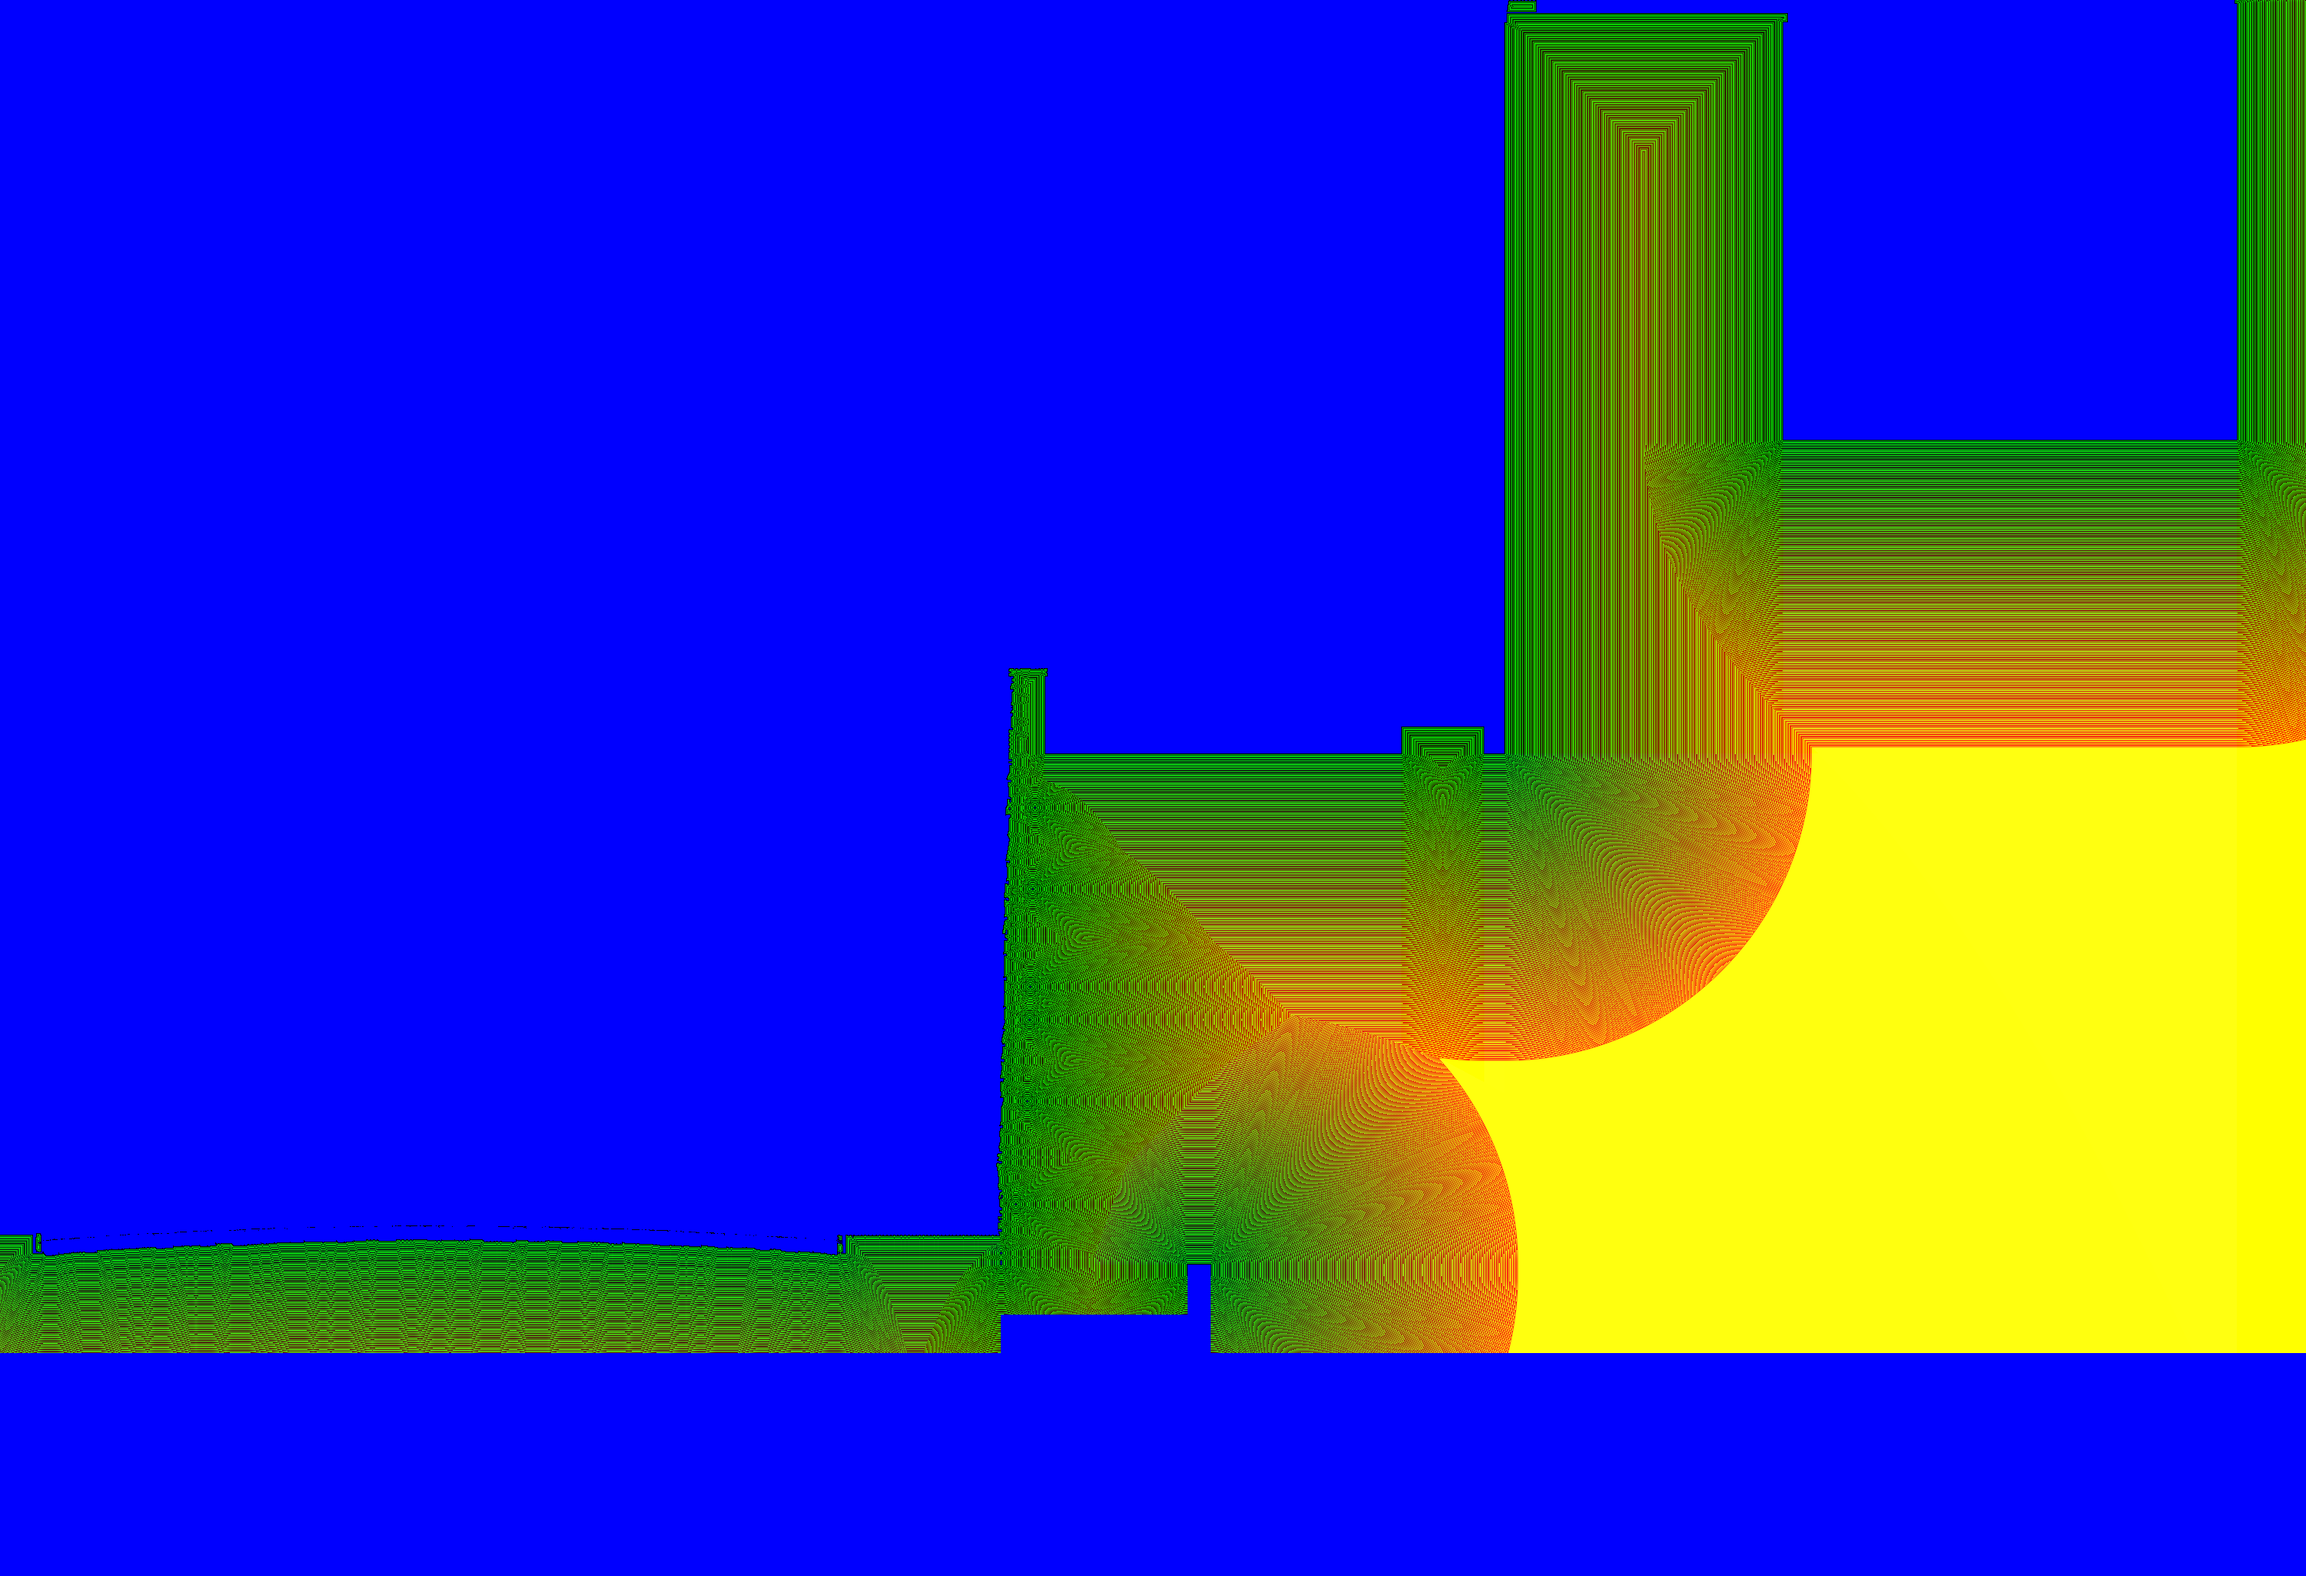
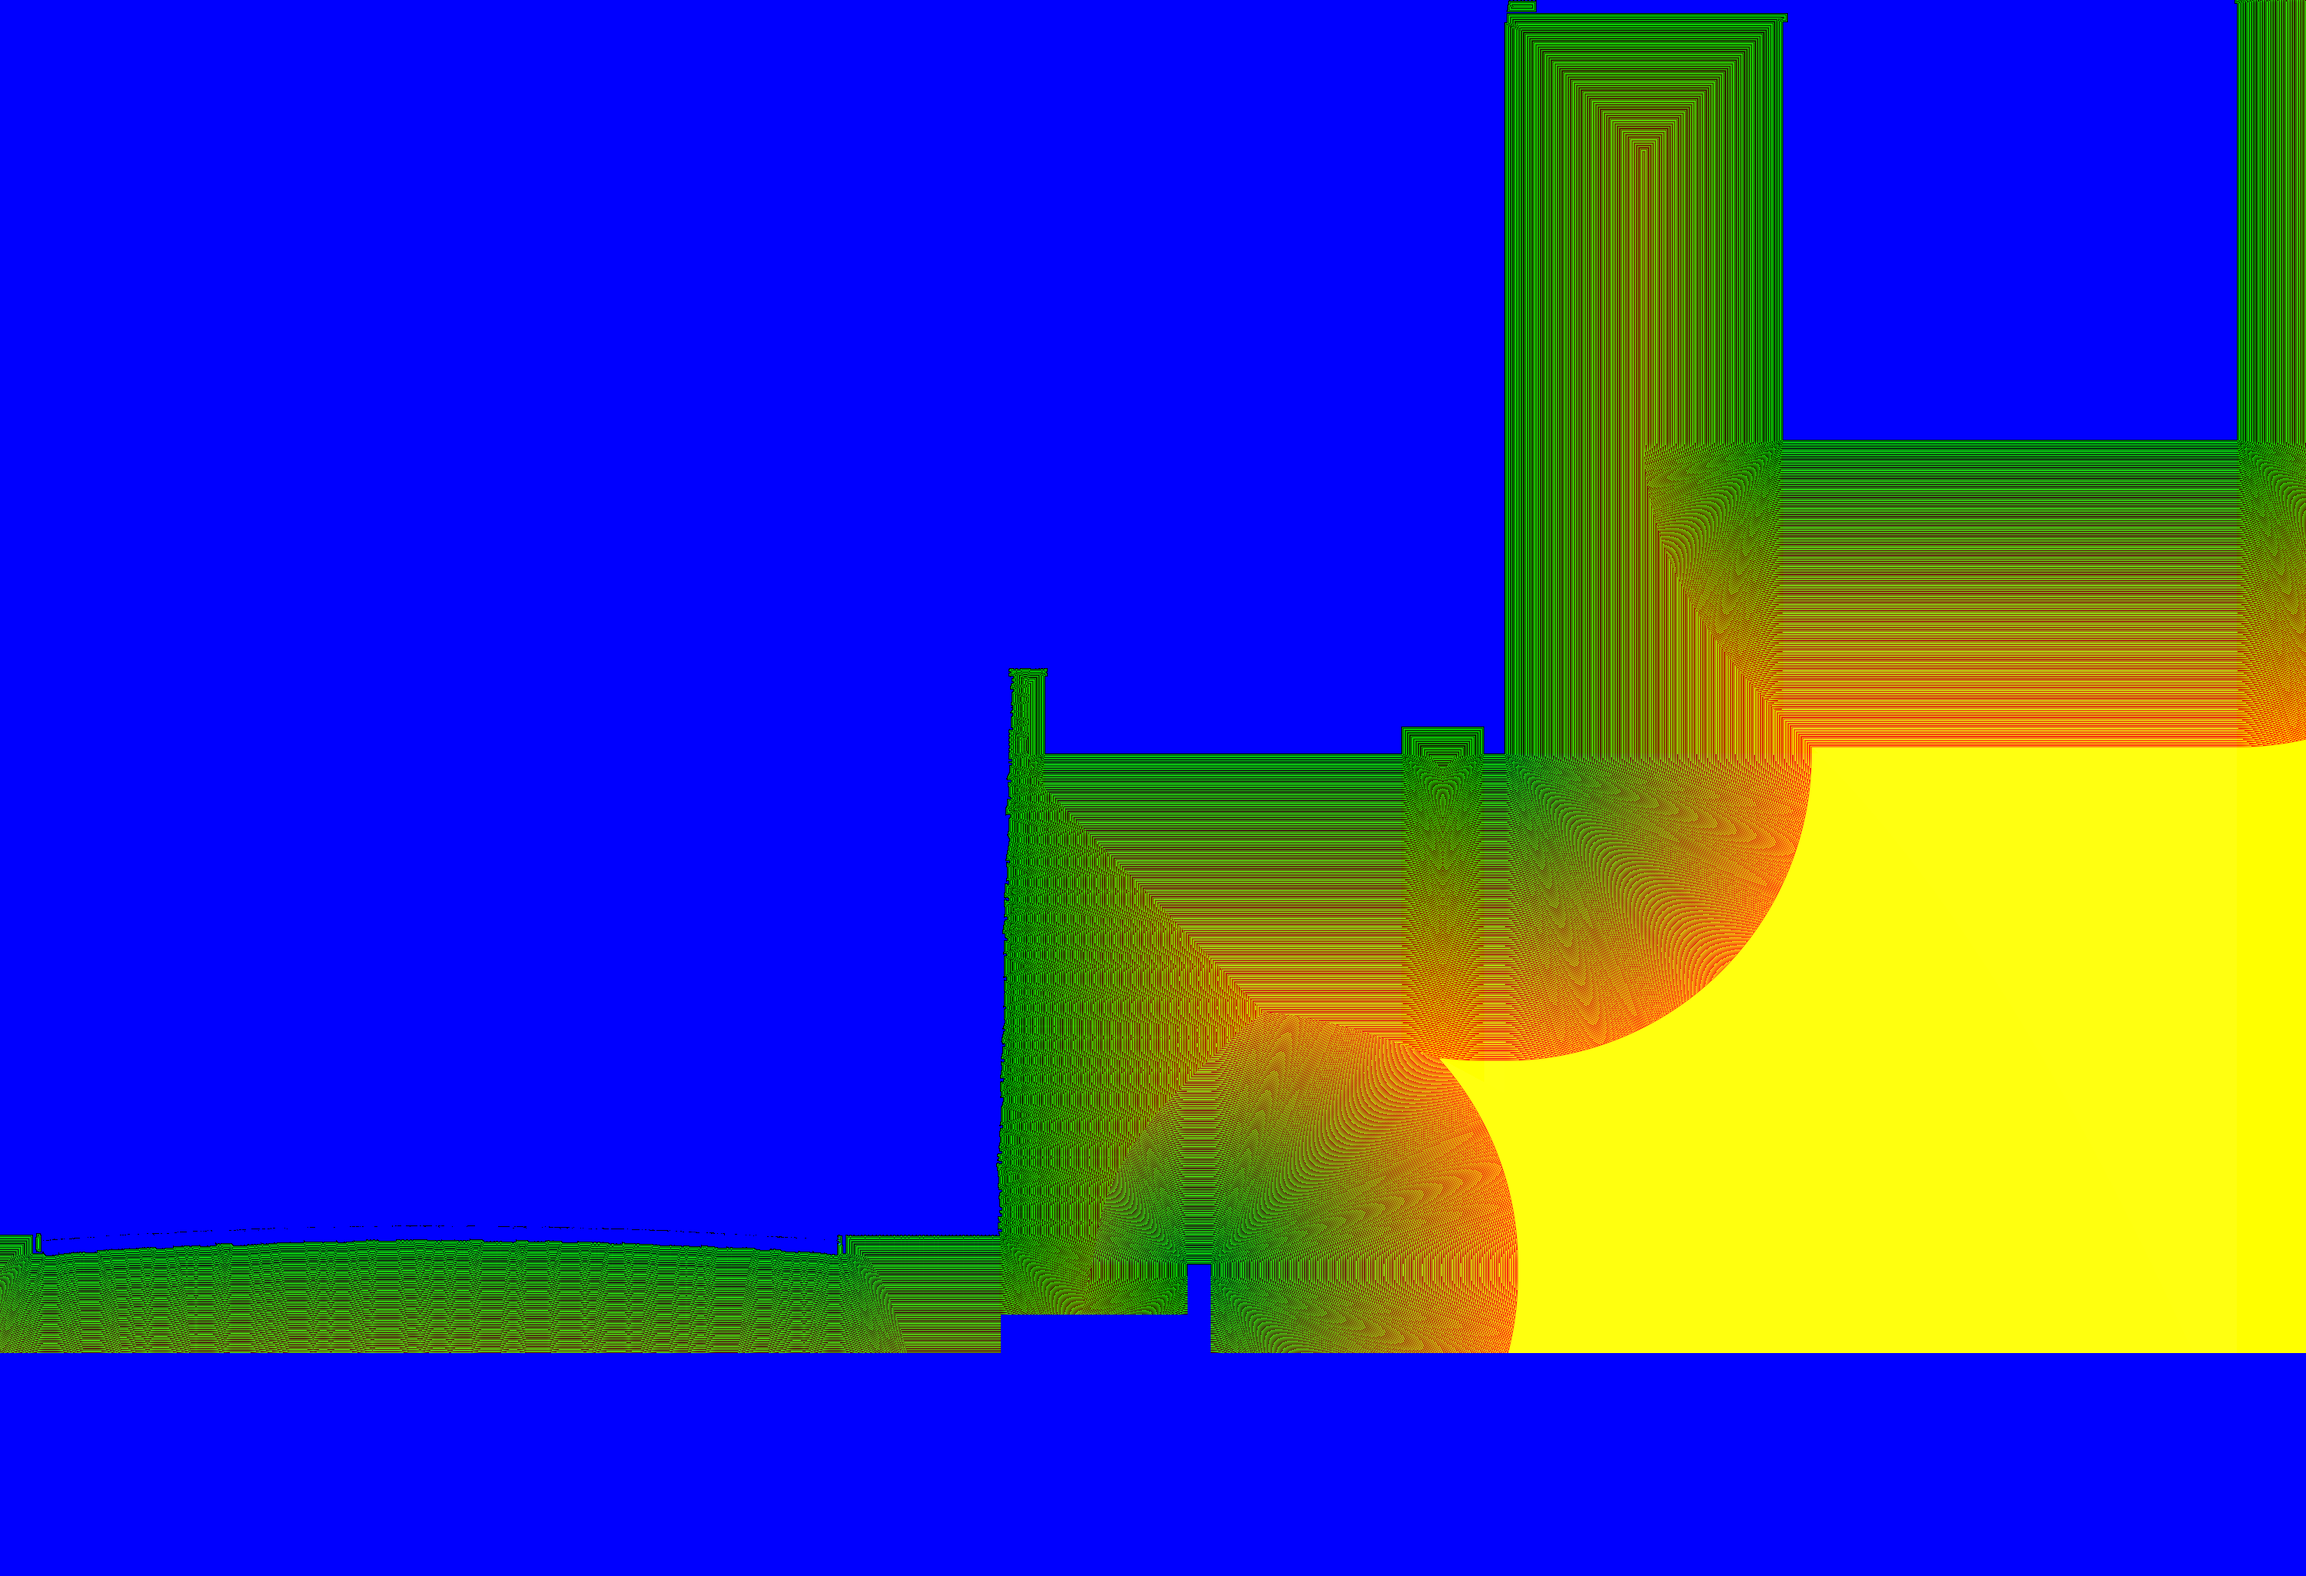
Main preset (banded wall, woven cut), top crop; fix hot spots from pin-holes in the cut

Changed region(s): [[0.403, 0.4995, 0.558, 0.8741]]

diff --git a/params.js b/params.js
@@ -44,7 +44,7 @@ export const PARAMS = [
   { k: "vegAmt", g: "style", t: "r", min: 0, max: 1.5, step: 0.01, v: 0.95, l: "Planting" },
   { k: "grain", g: "style", t: "r", min: 0, max: 3, step: 0.01, v: 1, l: "Paper grain" },
   // --- cut
-  { k: "cutStyle", g: "cut", t: "s", o: [["0", "Stone by stone"], ["1", "Solid"], ["2", "Stipple"], ["3", "Heat only"]], v: "0", l: "Poché" },
+  { k: "cutStyle", g: "cut", t: "s", o: [["0", "Stone by stone"], ["1", "Solid"], ["2", "Stipple"], ["3", "Heat only"], ["4", "Weave (heat threads)"]], v: "0", l: "Poché" },
   { k: "cutDensity", g: "cut", t: "r", min: 0, max: 1.2, step: 0.01, v: 1, l: "Cut density" },
   { k: "cutLine", g: "cut", t: "r", min: 0, max: 3, step: 0.01, v: 1, l: "Cut outline" },
   { k: "earthFade", g: "cut", t: "r", min: 0.4, max: 5, step: 0.05, v: 1.6, l: "Earth fades out, m" },
@@ -85,6 +85,7 @@ export const PARAMS = [
   { k: "offX", g: "sheet", t: "r", min: -6, max: 6, step: 0.05, v: 0, l: "Shift drawing X, m" },
   { k: "offZ", g: "sheet", t: "r", min: -4, max: 6, step: 0.05, v: 0, l: "Shift drawing Z, m" },
   { k: "scale", g: "sheet", t: "s", o: [["30", "1:30"], ["40", "1:40"], ["50", "1:50"], ["25", "1:25"], ["20", "1:20"]], v: "30", l: "Scale" },
+  { k: "topClip", g: "sheet", t: "r", min: 0, max: 200, step: 1, v: 0, l: "Crop the drawing at the top, mm" },
   { k: "edgeFade", g: "sheet", t: "r", min: 0, max: 60, step: 1, v: 18, l: "Edge dissolve, mm" },
   { k: "focusR", g: "sheet", t: "r", min: 0, max: 30, step: 0.25, v: 10.5, l: "Focus radius, m (0 = all)" },
   { k: "focusX", g: "sheet", t: "r", min: -10, max: 10, step: 0.25, v: -2.5, l: "Focus centre X, m" },
@@ -102,6 +103,10 @@ export const DEFAULTS = Object.fromEntries(PARAMS.map(p => [p.k, p.v]));
 const NIGHT = { dark: true, cPaper: "#1d1c1a", cInk: "#d8d1c3", cCut: "#cfc6b6", cVeg: "#7f9a78", r2: "#8c8478", r0: "#6f8fb5", r1: "#9fb2bd", r3: "#e0874f", r4: "#ff5a3a" };
 const P = (name, note, o) => ({ name, note, o });
 export const PRESETS = [
+  P("★ Main · banded wall, woven cut", "The working version: the wall and ground beyond in flat bands of heat (after Fisk's meander maps), the cut woven from threads coloured by the heat stored in the mass. Drawing lowered to the middle of the sheet, trimmed at the top.",
+    { style: "3", hInk: 1, hPost: 7, hWash: 0.35, lines: 0.7, seam: 1.1, cutStyle: "4", spacing: 0.9, hCut: 0.8, cutLine: 1.8, cCut: "#3b2f2a", cPaper: "#f4efe2",
+      r0: "#6d9bb5", r1: "#a9c9a4", r2: "#e9dcae", r3: "#e8a06a", r4: "#c65a5a", cVeg: "#7fa27a", grain: 0.8, font: "serif",
+      offZ: 1.6, topClip: 34, stripY: 440, storyY: 330 }),
   P("Thermal ink", "The colour of every stroke is the temperature of that surface: red is hotter than the air, blue is cooler, graphite is the same as the air.", {}),
   P("Graphite & ember", "A graphite drawing; red wash and stipple only where a surface is hotter than the air.",
     { hInk: 0, hWash: 0.16, hDots: 0.8, hCut: 0.6, hTmin: 0, hTmax: 16 }),

diff --git a/shader.js b/shader.js
@@ -34,7 +34,7 @@ uniform int pStyle;           // 0 hatch 1 stipple 2 halftone 3 flat 4 lines-onl
 uniform int pCutStyle;        // 0 per-stone hatch 1 solid 2 stipple 3 thermal fill
 uniform float hInk, hWash, hIso, hDots, hHalo, hTmin, hTmax, hIsoStep, hRel, hCut, hMisreg, hPhotoCol;
 uniform float uTime;          // for subtle animation (not used for data)
-uniform float hPost, pToneHeat, pRidge;
+uniform float hPost, pToneHeat, pRidge, pTopClip;
 uniform int uOut;             // 0 drawing, 1 temperature field (R,G = T, B = kind)
 uniform vec3 uFocus;          // focus centre (sx, sz) and radius (m); radius 0 = off
 uniform float uFocusSoft;
@@ -229,16 +229,18 @@ void main(){
         float c2 = hatch(P, angc+PI*.5, .40*pSpacing, .13*pWidth, px, 43, .1, .1, 4.);
         float v = max(c1, c2*.8);
         if(pCutStyle==1) v = .92; if(pCutStyle==2) v = stip(P, .85, .3, .09, px, 44); if(pCutStyle==3) v = seam? .55 : .9;
+        if(pCutStyle==4){ vec2 wc = floor(P/1.6); float hv = mod(wc.x+wc.y,2.); v = seam? 0. : (.55 + .45*hatch(P, hv>.5? 0. : PI*.5, .30*pSpacing, .16*pWidth, px, 9, .05, .0, 9.)); }
         if(pStyle==2) v = halftone(P, .8, .55, .3, px);
         if(pStyle==4) v = 0.;
-        v *= ctx? .45 : 1.; if(seam && pCutStyle!=1 && pCutStyle!=3) v = 0.;
+        v *= ctx? .45 : 1.; if(seam && pCutStyle!=1 && pCutStyle!=3 && pCutStyle!=4) v = 0.;
         inkC = max(inkC, v*cutAmt);
       } else {
         float dep = dec16(texture(tSec,uv).rg)*4. + (vn(P,6.,49)-.5)*.5;
         float ef = 1. - sm(dep, .25, pEarthFade);
         float e = stip(P, .75*ef, .36, .075, px, 45)*.9;
         e = max(e, hatch(P, radians(-20.), 1.4, .11, px, 47, .18, .55, 2.)*.55*sm(ef,.35,.8));
-        if(pCutStyle==1) e = ef*.5; if(pStyle==2) e = halftone(P, .6*ef, .6, .3, px);
+        if(pCutStyle==1) e = ef*.5;
+        if(pCutStyle==4){ vec2 wc = floor(P/1.6); float hv = mod(wc.x+wc.y,2.); e = ef*(.25+.55*hatch(P, hv>.5? 0. : PI*.5, .36*pSpacing, .12*pWidth, px, 9, .05, .0, 9.)); } if(pStyle==2) e = halftone(P, .6*ef, .6, .3, px);
         inkC = max(inkC, e*cutAmt*.8);
       }
     } else {
@@ -336,6 +338,7 @@ void main(){
   float e = min(min(P.x, P.y), min(uSheetMM.x-P.x, uSheetMM.y-P.y));
   float nz = (vn(P,7.,65)-.5)*pEdgeFade*.8 + (vn(P,1.5,66)-.5)*pEdgeFade*.25;
   float kf = pEdgeFade>0.? sm(e+nz, 2., pEdgeFade) : 1.;
+  if(pTopClip > 0.) kf *= sm(P.y - pTopClip + nz*.5, 0., max(pEdgeFade*.6, 1.));
   if(uFocus.z > 0.){
     float fd = length((o - uFocus.xy)*vec2(1., 1.25)) + (vn(P,9.,67)-.5)*uFocusSoft*.9 + (vn(P,2.,68)-.5)*uFocusSoft*.3;
     kf *= 1. - sm(fd, uFocus.z, uFocus.z + uFocusSoft);

diff --git a/main.js b/main.js
@@ -143,7 +143,7 @@ function setUniforms(Sx, st, M, res, vw) {
   f("hInk", Sx.hInk); f("hWash", Sx.hWash); f("hIso", Sx.hIso); f("hDots", Sx.hDots); f("hHalo", Sx.hHalo); f("hTmin", Sx.hTmin); f("hTmax", Sx.hTmax);
   f("hIsoStep", Sx.hIsoStep); f("hRel", Number(Sx.hRel)); f("hCut", Sx.hCut); f("hMisreg", 0); f("hPhotoCol", Sx.photoCol);
   gl.uniform3f(U.uFocus, Sx.focusX, Sx.focusZ, Sx.focusR); f("uFocusSoft", Sx.focusSoft);
-  gl.uniform1i(U.uOut, Sx._out || 0); f("hPost", Sx.hPost); f("pToneHeat", Sx.toneHeat); f("pRidge", Sx.ridge);
+  gl.uniform1i(U.uOut, Sx._out || 0); f("hPost", Sx.hPost); f("pToneHeat", Sx.toneHeat); f("pRidge", Sx.ridge); f("pTopClip", Sx.topClip);
 }
 // render a sheet region into pixels: returns ImageData (w x h), region given in sheet mm
 let FB = null;
